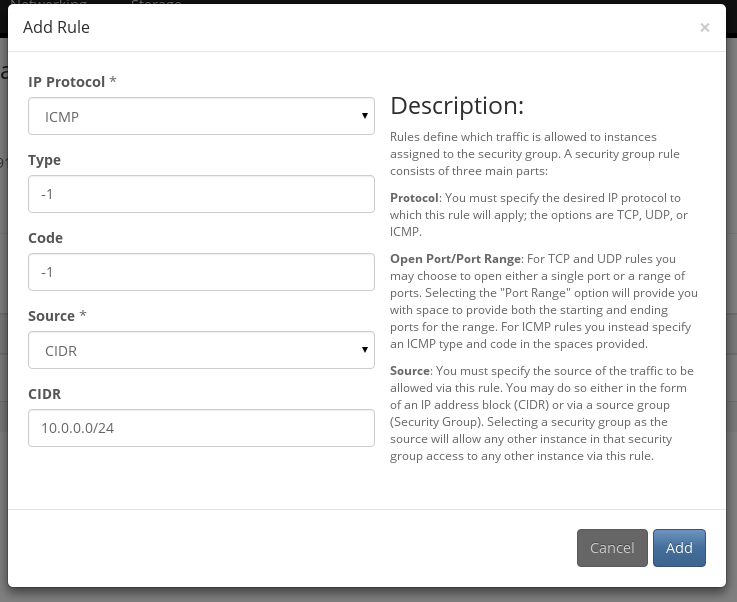
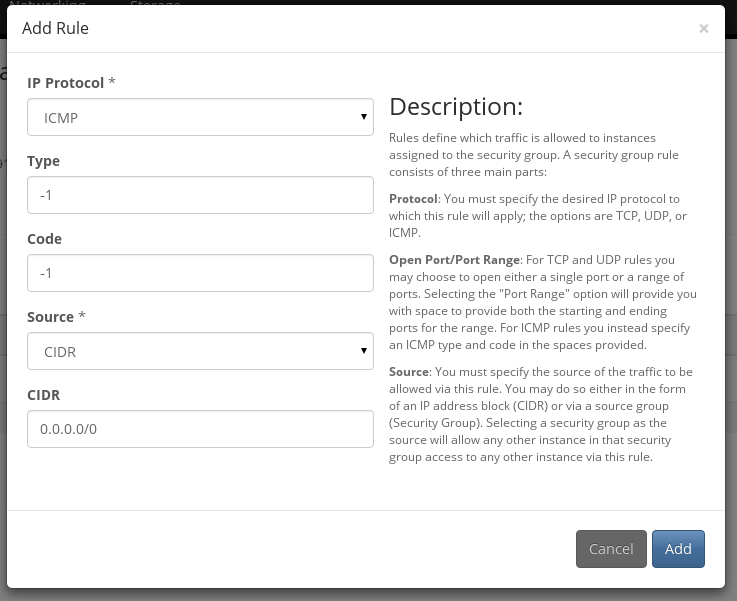
Move security group examples into their own document.
- add a section for CIDRs

diff --git a/content/networking/security-groups-examples.md b/content/networking/security-groups-examples.md
@@ -1,0 +1,98 @@
+/*
+Title: Security Group Examples
+Sort: 2
+*/
+
+## Web Server Security Group
+
+Navigate to "Access & Security", under the "Servers" menu, then click "create
+security group". Fill in your desired identifier and description for the new
+security group. Note that your identifier can only contain upper or lower case
+letters (no spaces or symbols).
+
+
+![Create Security Group](/img/content/networking/web-security-group.png)
+
+Then, edit your security group's rules to add the required ports by clicking
+"Edit Rules".
+
+
+![Web Security Group](/img/content/networking/security-group-list.png)
+
+Click "Add Rule", and the Add Rule modal window will appear so you can add the
+port to the group.
+
+Make sure the protocol is set to TCP, and the set the port to 80.
+
+
+![Security Group Add Rule](/img/content/networking/security-group-add-rule.png)
+
+Now that you have port 80 configured, you'll also want to add 443 for HTTPS
+traffic for your web security group. Simply go through the same process again,
+but this time specify port 443, and hit Add again.
+
+Your security group details should now list both 80 and 443, like below.
+
+![Security Group New Rules](/img/content/networking/security-group-rules.png)
+
+
+## Assigning A Security Group
+
+The final step, now that we have created the "web" security group, is to add
+the group to your instance that you want connected to the web. Head back to
+your instance list, and click the "More" menu on the desired instance, then
+"Edit security groups".
+
+![Security Group Assigning Menu](/img/content/networking/security-group-assign.png)
+
+This will open the "Edit Instance" window set to the "Security Groups" tab.
+This view shows a list of all available Security Groups, along with any that
+are already assigned to the instance. Clicking the + button on the "web"
+security group listed in "All Security Groups" will place it in the right
+column of assigned groups.
+
+![Security Group Assigning](/img/content/networking/security-group-assign2.png)
+
+After clicking save, your instance will be accessible on port 80 and 443. To
+confirm this, you can open your instance details and see the list of open ports
+will now include the assigned web ports!
+
+
+## ICMP / Ping Rules
+
+In order to allow servers to ping each other, or be reached via ICMP through
+the Internet, you must create a Security Group Rule of protocol **ICMP**, type
+**-1**, and code **-1**.
+
+![Security Group Rule ICMP](/img/content/networking/security-group-icmp.png)
+
+
+## CIDR Rundown
+
+CIDR stands for "**Classless Inter-Domain Routing**", which allows you to easily
+specify a subsection of IP addresses. In the context of Security Groups, it
+permits you to open access to a group of IP addresses, rather than singularly or
+globally. CIDRs are written as a *standard IP address*, followed by a *slash* (/),
+then a *number* specifying the number of bits of address space you are
+designating from **0 to 32**. Read a full definition of 
+[CIDR on Wikipedia](https://en.wikipedia.org/wiki/Classless_Inter-Domain_Routing).
+
+### Globally Open
+
+If you wish to allow the Security Group port(s) to be accessed from ANY remote
+IP address, you will specify the CIDR of `0.0.0.0/0`
+
+### Internal Network Traffic
+
+For internal access on an internal subnet of `10.0.0.0` with subnet mask
+`255.255.255.0`, you would use a CIDR of `10.0.0.0/24`. If your internal
+network used the mask `255.255.0.0` for a larger address space, you would
+create a CIDR of `10.0.0.0/16`.
+
+### Single Address
+
+Finally, if you want to only allow access for the rules of a security group to
+a single IP (office / home), you would create the most restrictive CIDR 
+possible, allowing only 1 address through using a `/32` designation. For 
+example, if your address were `76.11.212.12`, the CIDR would be 
+`76.11.212.12/32`.
